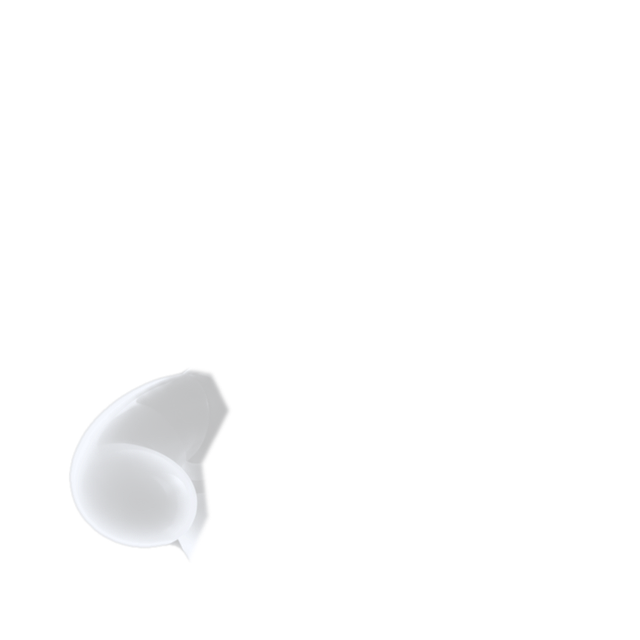
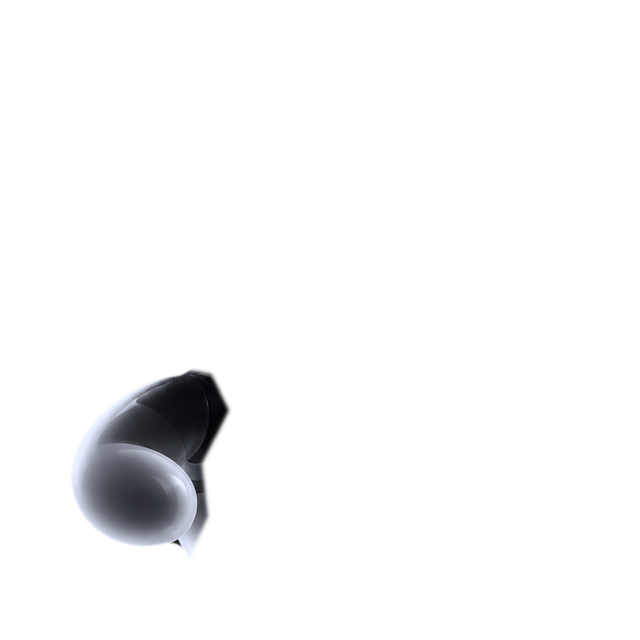
Willo back in his dark glass, without the coloured reflections: every light in him is now a cool grey, as in the new reference, whose "willo." he wears on his chest in place of the coloured badge. The blue returns to his eyes and mouth, and the scraps of backdrop beside the neck are gone. The body n

Changed region(s): [[0.0938, 0.5625, 0.375, 0.875]]

diff --git a/mobile/src/components/willo/WilloBot.tsx b/mobile/src/components/willo/WilloBot.tsx
@@ -15,9 +15,9 @@ import Svg, { Defs, Ellipse, Path, RadialGradient, Stop } from "react-native-svg
 import type { OrbMode } from "~/components/registro/ParticleOrb";
 
 /**
- * Willo the robot: a figure of neutral glass cut into four layers, head, body and two arms, all
- * drawn on the same square so they line up by themselves. He has no colour of his own: what is
- * in the picture is light and a little smoke, so whatever the background is shows through him.
+ * Willo the robot: a dark glass figure cut into four layers, head, body and two arms, all drawn
+ * on the same square so they line up by themselves. His light is a cool grey, with no colour in
+ * its reflections, so he sits well on any background; the only blue is in his eyes.
  * The eyes and the mouth are not in the picture; they are drawn here, so they can move. Small,
  * he is only his head.
  *
@@ -361,13 +361,13 @@ export default function WilloBot({
             <Svg width={side} height={side}>
               <Defs>
                 <RadialGradient id="bot-aura" cx="50%" cy="50%" r="50%">
-                  <Stop offset="0" stopColor="#FFFFFF" stopOpacity={0.12} />
-                  <Stop offset="0.7" stopColor="#FFFFFF" stopOpacity={0.04} />
-                  <Stop offset="1" stopColor="#FFFFFF" stopOpacity={0} />
+                  <Stop offset="0" stopColor="#B9C8EE" stopOpacity={0.16} />
+                  <Stop offset="0.7" stopColor="#B9C8EE" stopOpacity={0.05} />
+                  <Stop offset="1" stopColor="#B9C8EE" stopOpacity={0} />
                 </RadialGradient>
                 <RadialGradient id="bot-floor" cx="50%" cy="50%" r="50%">
-                  <Stop offset="0" stopColor="#FFFFFF" stopOpacity={0.3} />
-                  <Stop offset="1" stopColor="#FFFFFF" stopOpacity={0} />
+                  <Stop offset="0" stopColor="#A9BBEA" stopOpacity={0.42} />
+                  <Stop offset="1" stopColor="#A9BBEA" stopOpacity={0} />
                 </RadialGradient>
               </Defs>
               <Ellipse cx={side * 0.47} cy={side * 0.46} rx={side * 0.5} ry={side * 0.5} fill="url(#bot-aura)" />
@@ -388,20 +388,20 @@ export default function WilloBot({
                   <Svg width={EYE_W * side * 2.6} height={EYE_H * side * 1.7} style={{ position: "absolute" }}>
                     <Defs>
                       <RadialGradient id="bot-eye" cx="50%" cy="50%" r="50%">
-                        <Stop offset="0.35" stopColor="#FFFFFF" stopOpacity={0.42} />
-                        <Stop offset="1" stopColor="#FFFFFF" stopOpacity={0} />
+                        <Stop offset="0.35" stopColor="#3E8BFF" stopOpacity={0.75} />
+                        <Stop offset="1" stopColor="#2A5BFF" stopOpacity={0} />
                       </RadialGradient>
                     </Defs>
                     <Ellipse cx={EYE_W * side * 1.3} cy={EYE_H * side * 0.85} rx={EYE_W * side * 1.3} ry={EYE_H * side * 0.85} fill="url(#bot-eye)" />
                   </Svg>
-                  <View style={{ width: EYE_W * side, height: EYE_H * side, borderRadius: EYE_W * side, backgroundColor: "#FFFFFF" }} />
+                  <View style={{ width: EYE_W * side, height: EYE_H * side, borderRadius: EYE_W * side, backgroundColor: "#E4F2FF" }} />
                 </View>
               </Animated.View>
             ))}
             <Animated.View style={[{ position: "absolute", left: MOUTH.x * side - box / 2, top: MOUTH.y * side - box / 2, width: box, height: box, transform: [{ rotate: "-11deg" }] }, mouth]}>
               <Svg width={box} height={box}>
-                <AnimatedPath animatedProps={mouthGlow} fill="#FFFFFF" fillOpacity={0.16} stroke="#FFFFFF" strokeOpacity={0.16} strokeWidth={side * 0.024} strokeLinejoin="round" />
-                <AnimatedPath animatedProps={mouthProps} fill="#FFFFFF" stroke="#FFFFFF" strokeWidth={side * 0.005} strokeLinejoin="round" />
+                <AnimatedPath animatedProps={mouthGlow} fill="#3E8BFF" fillOpacity={0.3} stroke="#3E8BFF" strokeOpacity={0.3} strokeWidth={side * 0.024} strokeLinejoin="round" />
+                <AnimatedPath animatedProps={mouthProps} fill="#E4F2FF" stroke="#E4F2FF" strokeWidth={side * 0.005} strokeLinejoin="round" />
               </Svg>
             </Animated.View>
           </Animated.View>
